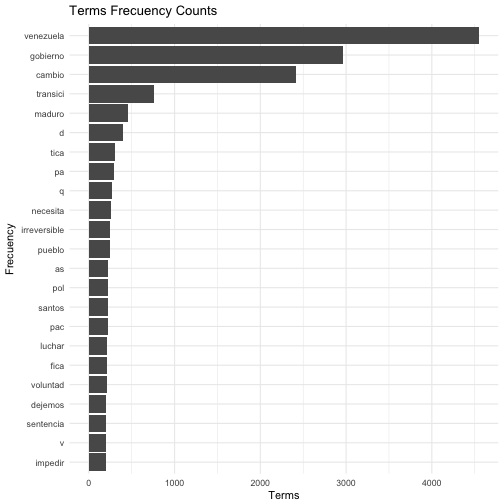
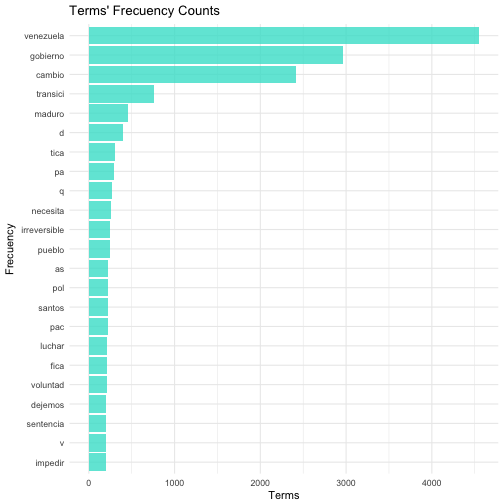
Presentation prep

Changed region(s): [[0.1786, 0.0, 0.9524, 0.9524]]

diff --git a/Presentation.md b/Presentation.md
@@ -6,32 +6,33 @@ autosize: true
 
 Context:
 ========================================================
-- In April 12, 2017, the Venezuelan Supreme Court (SC) trying to take over the function of the Congress (C); a coup d'état. 
-- Next day, in a meeting with all the ministers, the president asked the SC to concider retracting its prior desicion. 
-- That night, the SC did it. 
-- However, a large sector of the population, went to the streets to protest for what they considered as a coup d'état. 
-- Protest has not stopped since then.
-       - Sixthy persons have died as result of violence during the protests; most of then in hand of the national police. 
+- On April 12, 2017, the Venezuelan Supreme Court (SC) announced that it was taking over the Congress' functions; **a juditial coup d'état**. 
+- The next day, the President asked the SC to consider retracting from its announcement. 
+- That night, the SC did it; **talk about separation of powers** 
+- Since then, a large sector of the population declared themselves in rebellion for what they consider as a breakage of the constitutional order. 
+       - Protest has not stopped since then: sixty persons have died in the hands of the national police. 
+
+**If you are interested in socila movements this is a nice chance.**
 
 Question:
 ========================================================
 
-- I wanted to explore, In the middle of the current political crisis, what are the charactetistics of the most influencial tweets?
+- I wanted to explore, in the middle of the current political crisis, what are the characteristics of the most influential messages in the twiter social media?
 
-- This is an important question related the use of media for political mobilization.
+- This is an important question related the use of socila media for political mobilization.
 
 Methods:
 ========================================================
 - I created a API to get tweets from 05/01 to 05/28.
        - No geolocation in tweets.
-       - Search conducted using the terms "venezuela," "gobierno," and "cambio."
+       - Search conducted using the terms "Venezuela," "gobierno," and "cambio."
        - Initial size: 45,000 tweets.
 - Tidy data-set
        - Removed re-tweets.
        - Tokenized tweets by words and n-grams.
        - Added new variables: tweet type, and tweet popularity (Construct).
 - Final size: 6,445 tweets.
-- Tranlated the "nrc" and "bing" lexicons.
+- Translated the "nrc" and "bing" lexicons.
 
 Frequency Analysis
 ========================================================
@@ -60,74 +61,30 @@ Terms' tf_idf Frequency.
 ![plot of chunk unnamed-chunk-6](Presentation-figure/unnamed-chunk-6-1.png)
 One-grams' tf_idf Frequency by Popularity.
 ========================================================
-![plot of chunk unnamed-chunk-7](Presentation-figure/unnamed-chunk-7-1.png)
-
-How to change individualy the x-axis when using "facets."
-
-N-grams' Frecuency Counts. 
-========================================================
-
-
-
-|Word 1    |Word 2        |word 3    | Total|
-|:---------|:-------------|:---------|-----:|
-|venezuela |necesita      |gobierno  |   111|
-|caracas   |tv            |venezuela |    84|
-|radio     |caracas       |tv        |    84|
-|tv        |venezuela     |necesita  |    84|
-|estado    |más           |crítica   |    76|
-|maduro    |prohíbe       |mandar    |    74|
-|más       |injerencistas |santos    |    74|
-|prohíbe   |mandar        |material  |    72|
-|grupo     |transición    |pacífica  |    59|
-|violencia |opositora     |forma     |    58|
-|libertad  |edgar         |ramírez   |    55|
-|mar       |d             |plata     |    49|
-|rctv      |venezuela     |necesita  |    43|
-
-N-grams Ranked by tf-idf and Group by Popularity
-========================================================
-
-
-![plot of chunk unnamed-chunk-11](Presentation-figure/unnamed-chunk-11-1.png)
-- Figure why popular tweets has more than the selected top 5?
-- Print in a better way.
-
-Comparing Tweets by Time Posted.
-========================================================
-
-
-
-![plot of chunk unnamed-chunk-13](Presentation-figure/unnamed-chunk-13-1.png)
-
-
-Sentiment Analysis.
-========================================================
 
 
 
 
-![plot of chunk unnamed-chunk-16](Presentation-figure/unnamed-chunk-16-1.png)
-
-Topic Modeling.
-========================================================
-![plot of chunk unnamed-chunk-17](Presentation-figure/unnamed-chunk-17-1.png)
-
-
-To Work On
-========================================================
-- Double check lexicons and tokenization process.
-- Stilylize plots and charts. 
-- Organize files in repo. Righ now is a mess!
-- Streamline the code and pipeline.
-- Finishing the AFINN lexicon.
-- Get more tweets.
-- Adding a Shiny app for exploration.
-       - Bootstraping the data.
-       - Poisson measure.
-       - Select tweets acording to populatity and tf-idf score.
-- Editing website.
 
 
 
 
+
+
+
+
+
+
+
+
+
+
+
+
+
+
+
+```
+Error in layer(data = data, mapping = mapping, stat = "identity", geom = GeomCol,  : 
+  object 'alph' not found
+```
